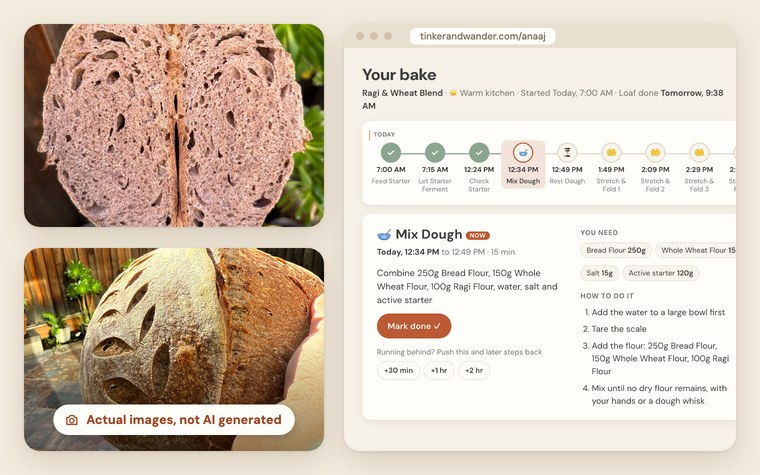
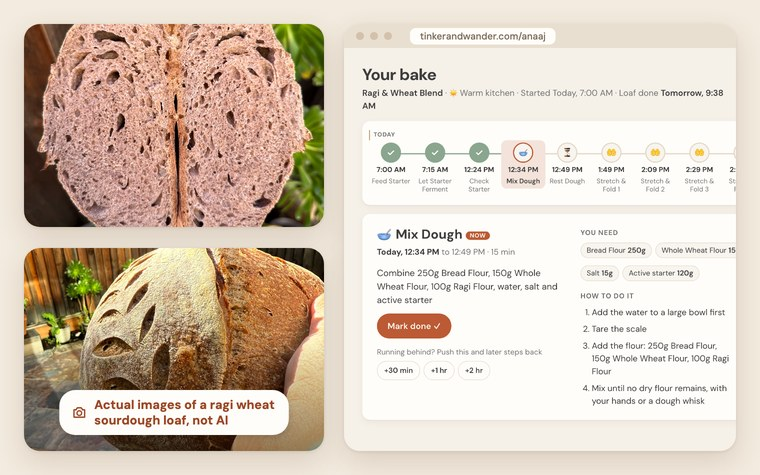
Say the photos are of a ragi wheat loaf

Changed region(s): [[0.0605, 0.7958, 0.3934, 0.9137]]

diff --git a/index.html b/index.html
@@ -507,7 +507,7 @@ section { padding-top: clamp(56px, 7vw, 96px); padding-bottom: clamp(56px, 7vw, 
       <article class="project">
         <div class="brick"><span class="studs" aria-hidden="true"><i></i><i></i><i></i><i></i><i></i><i></i><i></i><i></i></span></div>
         <div class="projectBody">
-          <a class="shot" href="/anaaj" aria-label="Open Anaaj"><img src="/images/anaaj.jpg" width="760" height="475" loading="lazy" decoding="async" alt="Real photos of my sourdough, one loaf cut in half and one with leaf scoring, next to the Anaaj bake planner on a laptop"></a>
+          <a class="shot" href="/anaaj" aria-label="Open Anaaj"><img src="/images/anaaj.jpg" width="760" height="475" loading="lazy" decoding="async" alt="Real photos of my ragi wheat sourdough loaf, cut in half and whole with leaf scoring, next to the Anaaj bake planner on a laptop"></a>
           <p class="for">For the kitchen</p>
           <p class="question">Why does a first sourdough loaf feel so hard to start?</p>
           <h3>Anaaj</h3>
